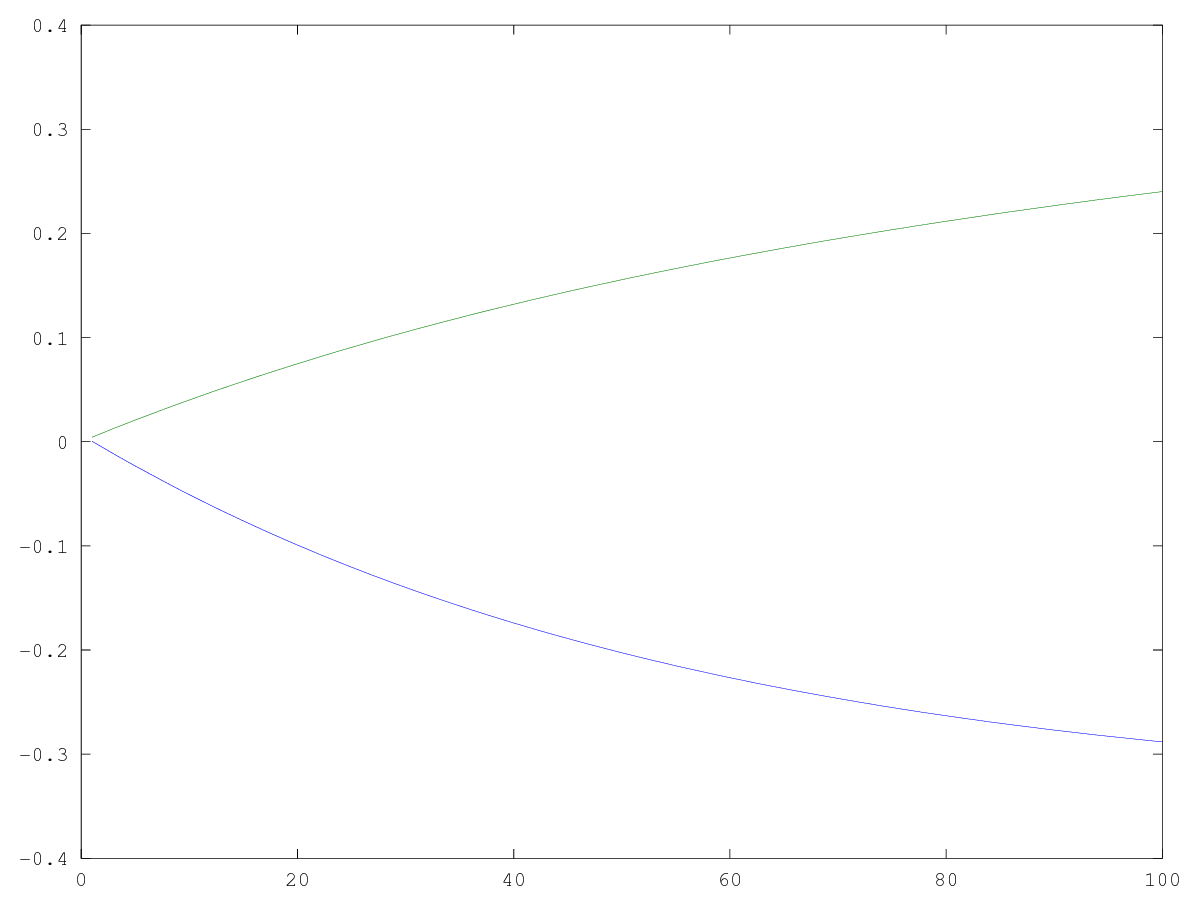
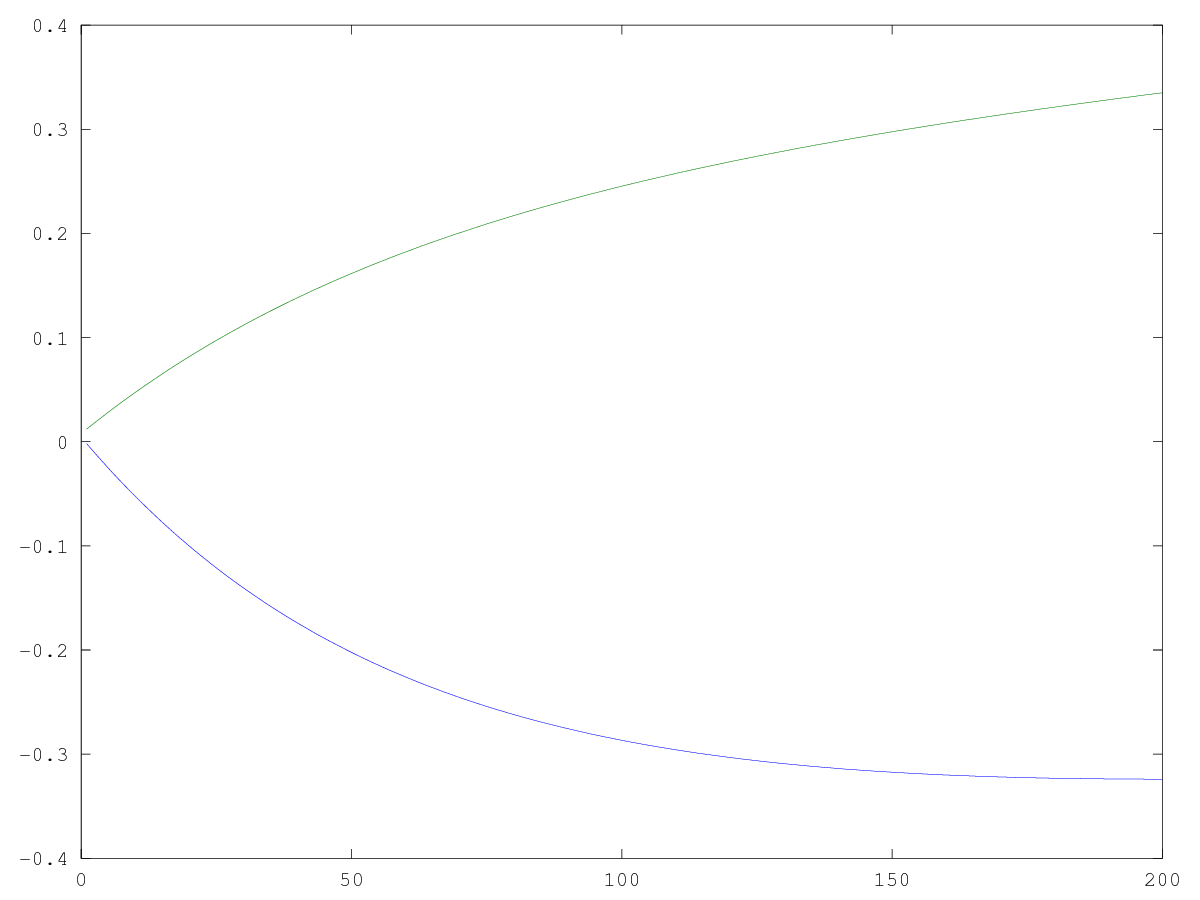
new sythentic experiment for top male

diff --git a/octave-src/sample/synthetic/top_male_bottom_female/GAMMA=0/model.m b/octave-src/sample/synthetic/top_male_bottom_female/GAMMA=0/model.m
@@ -1,9 +1,9 @@
-# Created by Octave 4.0.0, Thu Aug 09 11:22:43 2018 UTC <ubuntu@lsat>
+# Created by Octave 4.0.0, Thu Aug 09 11:43:55 2018 UTC <ubuntu@lsat>
 # name: omega
 # type: matrix
 # rows: 2
 # columns: 1
- -0.2881803493740893
- 0.240216687691946
+ -0.3239561128745631
+ 0.3350349754646056
 
 

diff --git a/octave-src/src/globals.m b/octave-src/src/globals.m
@@ -1,7 +1,7 @@
 % global variables declaration
 
 % number of training iterations
-global T = 100;
+global T = 200;
 
 % learning rate
 global e = 0.001;
